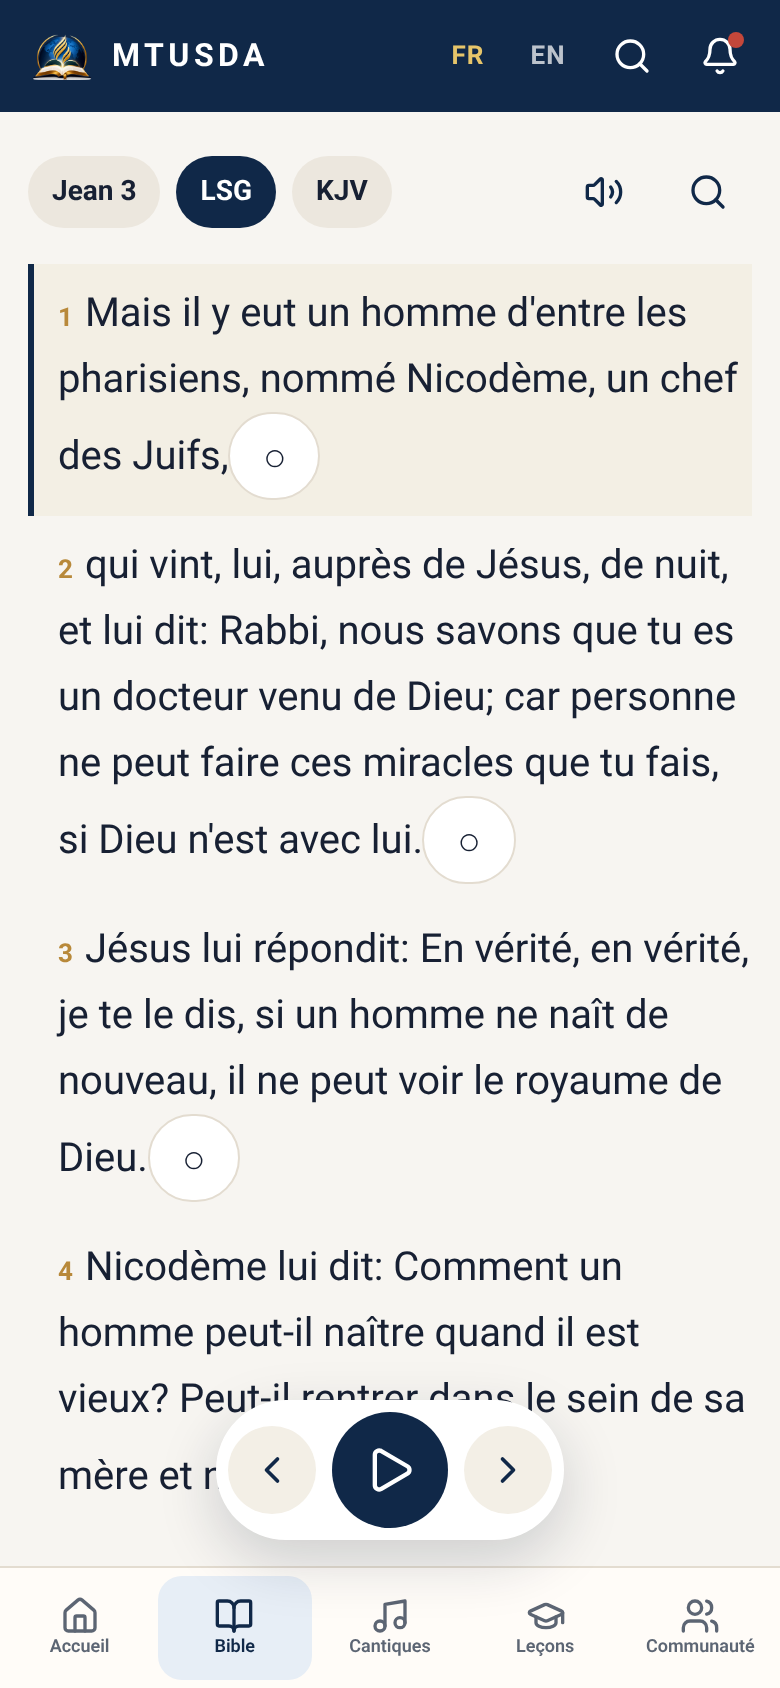
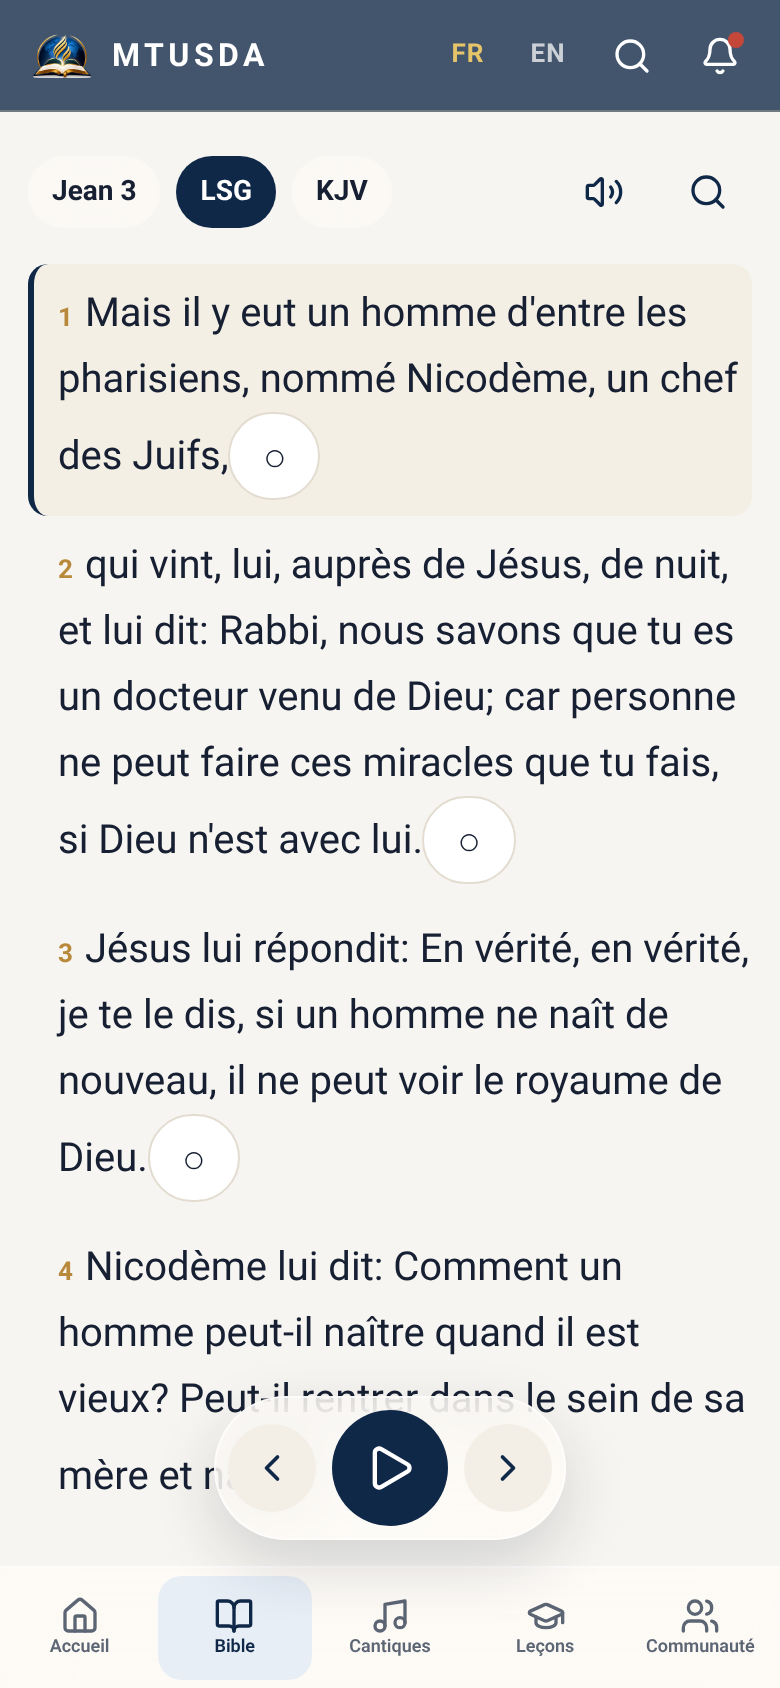
feat: add a brief splash, glass surfaces, and short motion
The first open of a session shows the logo on navy, then the home screen. Header, cards, and the listen bar are frosted. Page changes, tiles, and the spoken verse move quickly and respect reduced motion.

diff --git a/app/globals.css b/app/globals.css
@@ -19,7 +19,10 @@ html, body { background: var(--paper); overflow-x: hidden }
 body {
   margin: 0;
   color: var(--ink);
-  background: var(--paper);
+  background:
+    radial-gradient(900px 420px at 0% -10%, rgba(232, 215, 176, 0.55), transparent 55%),
+    radial-gradient(700px 380px at 100% 0%, rgba(27, 61, 104, 0.14), transparent 50%),
+    var(--paper);
   font-family: var(--sans);
   min-height: 100vh;
   min-height: 100dvh;
@@ -39,9 +42,11 @@ img { max-width: 100%; display: block }
   gap: 8px;
   min-height: 56px;
   padding: calc(4px + env(safe-area-inset-top)) 8px 4px 12px;
-  background: var(--navy);
+  background: rgba(16, 40, 72, 0.78);
   color: white;
-  border-bottom: 0;
+  border-bottom: 1px solid rgba(232, 215, 176, 0.28);
+  backdrop-filter: blur(18px) saturate(1.35);
+  -webkit-backdrop-filter: blur(18px) saturate(1.35);
 }
 .brand {
   display: flex;
@@ -184,8 +189,10 @@ img { max-width: 100%; display: block }
   display: grid;
   grid-template-columns: repeat(5, minmax(0, 1fr));
   gap: 2px;
-  background: #fffcf8;
-  border-top: 1px solid var(--line);
+  background: rgba(255, 252, 248, 0.72);
+  border-top: 1px solid rgba(255, 255, 255, 0.65);
+  backdrop-filter: blur(16px) saturate(1.2);
+  -webkit-backdrop-filter: blur(16px) saturate(1.2);
   padding: 4px 4px calc(4px + env(safe-area-inset-bottom));
 }
 .bottom a {
@@ -259,6 +266,18 @@ img { max-width: 100%; display: block }
   flex-direction: column;
   justify-content: space-between;
   gap: 8px;
+  border: 1px solid rgba(255, 255, 255, 0.28);
+  box-shadow: 0 10px 24px rgba(16, 40, 72, 0.12);
+  position: relative;
+  overflow: hidden;
+  animation: tile-in 420ms cubic-bezier(.2,.7,.2,1) both;
+}
+.tile::after {
+  content: "";
+  position: absolute;
+  inset: 0;
+  background: linear-gradient(160deg, rgba(255,255,255,0.32), transparent 48%);
+  pointer-events: none;
 }
 .tile span {
   font-weight: 700;
@@ -279,10 +298,13 @@ img { max-width: 100%; display: block }
 .verse-card {
   display: block;
   margin-top: 14px;
-  background: var(--card);
-  border: 1px solid var(--line);
+  background: rgba(255, 252, 248, 0.62);
+  border: 1px solid rgba(255, 255, 255, 0.72);
   border-radius: 18px;
   padding: 16px;
+  backdrop-filter: blur(14px);
+  -webkit-backdrop-filter: blur(14px);
+  box-shadow: 0 10px 28px rgba(16, 40, 72, 0.06);
 }
 .verse-card p {
   font-family: var(--display);
@@ -298,8 +320,10 @@ img { max-width: 100%; display: block }
   margin-top: 12px;
 }
 .today a, .today .panel {
-  background: white;
-  border: 1px solid var(--line);
+  background: rgba(255, 252, 248, 0.66);
+  border: 1px solid rgba(255, 255, 255, 0.75);
+  backdrop-filter: blur(12px);
+  -webkit-backdrop-filter: blur(12px);
   border-radius: 14px;
   padding: 12px 14px;
   min-height: 44px;
@@ -308,8 +332,10 @@ img { max-width: 100%; display: block }
 .grid-4, .grid-2, .bookgrid { display: grid; gap: 12px }
 .grid-2 { grid-template-columns: 1fr }
 .card, .panel {
-  background: var(--card);
-  border: 1px solid var(--line);
+  background: rgba(255, 252, 248, 0.7);
+  border: 1px solid rgba(255, 255, 255, 0.72);
+  backdrop-filter: blur(12px);
+  -webkit-backdrop-filter: blur(12px);
   border-radius: 18px;
   padding: 16px;
 }
@@ -519,6 +545,10 @@ textarea { min-height: 110px; resize: vertical }
 }
 @media (prefers-reduced-motion: reduce) {
   * { scroll-behavior: auto }
+  .page, .tile, .splash, .splash-mark img, .listen-bar, .listen-bar .go.on {
+    animation: none !important;
+  }
+  .verse-flow .verse, .stanza p, .listen-bar .go { transition: none }
 }
 @media (max-width: 430px) {
   .tiles { gap: 10px; }
@@ -538,7 +568,10 @@ textarea { min-height: 110px; resize: vertical }
   min-height: 36px;
   padding: 0 12px;
   border-radius: 999px;
-  background: #ece7de;
+  background: rgba(255, 252, 248, 0.55);
+  border: 1px solid rgba(255, 255, 255, 0.7);
+  backdrop-filter: blur(10px);
+  -webkit-backdrop-filter: blur(10px);
   color: var(--ink);
   font-weight: 700;
   font-size: 14px;
@@ -552,6 +585,8 @@ textarea { min-height: 110px; resize: vertical }
   padding: 8px 0 8px 12px;
   border-bottom: 0;
   border-left: 3px solid transparent;
+  border-radius: 10px;
+  transition: background 220ms ease, border-color 220ms ease;
 }
 .verse-flow .verse.speaking {
   background: #f3efe4;
@@ -560,7 +595,7 @@ textarea { min-height: 110px; resize: vertical }
 .verse-flow .verse b { color: var(--gold); margin-right: 6px; font-size: 13px; }
 .stanza { margin: 0 0 22px; }
 .stanza .n { color: var(--muted); font-weight: 700; margin-bottom: 4px; }
-.stanza p { margin: 0; font-size: 20px; line-height: 1.45; white-space: pre-wrap; }
+.stanza p { margin: 0; font-size: 20px; line-height: 1.45; white-space: pre-wrap; border-radius: 12px; transition: background 220ms ease; }
 .stanza.speaking p { background: #f3efe4; }
 .hymn-line {
   display: flex;
@@ -581,9 +616,13 @@ textarea { min-height: 110px; resize: vertical }
   align-items: center;
   gap: 8px;
   padding: 6px;
-  background: white;
+  background: rgba(255, 252, 248, 0.72);
+  border: 1px solid rgba(255, 255, 255, 0.7);
   border-radius: 999px;
-  box-shadow: 0 10px 30px rgba(16, 28, 48, 0.18);
+  box-shadow: 0 12px 32px rgba(16, 28, 48, 0.16);
+  backdrop-filter: blur(16px) saturate(1.3);
+  -webkit-backdrop-filter: blur(16px) saturate(1.3);
+  animation: bar-in 360ms cubic-bezier(.2,.7,.2,1);
 }
 .listen-bar a, .listen-bar button {
   width: 44px;
@@ -600,6 +639,10 @@ textarea { min-height: 110px; resize: vertical }
   height: 58px;
   background: var(--navy);
   color: white;
+  transition: transform 180ms ease;
+}
+.listen-bar .go.on {
+  animation: pulse 1.4s ease-in-out infinite;
 }
 .hymn-tools { display: flex; gap: 4px; }
 .hymn-tools button, .hymn-tools a {
@@ -609,4 +652,60 @@ textarea { min-height: 110px; resize: vertical }
 @media (min-width: 1100px) {
   .listen-bar { bottom: 24px; }
   .topbar { display: none; }
+}
+
+.page { animation: page-in 320ms cubic-bezier(.2,.7,.2,1); }
+@keyframes page-in {
+  from { opacity: 0; transform: translateY(10px); }
+  to { opacity: 1; transform: none; }
+}
+@keyframes tile-in {
+  from { opacity: 0; transform: translateY(12px) scale(0.98); }
+  to { opacity: 1; transform: none; }
+}
+@keyframes bar-in {
+  from { opacity: 0; transform: translateX(-50%) translateY(12px); }
+  to { opacity: 1; transform: translateX(-50%); }
+}
+@keyframes pulse {
+  0%, 100% { box-shadow: 0 0 0 0 rgba(184, 137, 58, 0.35); }
+  50% { box-shadow: 0 0 0 8px rgba(184, 137, 58, 0); }
+}
+.splash {
+  position: fixed;
+  inset: 0;
+  z-index: 80;
+  display: grid;
+  place-items: center;
+  pointer-events: none;
+  background:
+    radial-gradient(ellipse at 50% 38%, #1b3d68 0%, #0c1e36 52%, #071422 100%);
+  animation: splash-in 500ms ease;
+}
+.splash.out { animation: splash-out 420ms ease forwards; }
+.splash-mark { text-align: center; }
+.splash-mark img {
+  width: min(168px, 42vw);
+  height: auto;
+  margin: 0 auto;
+  animation: splash-mark 700ms cubic-bezier(.2,.7,.2,1);
+}
+.splash-mark b {
+  display: block;
+  margin-top: 18px;
+  color: #e6c56a;
+  letter-spacing: 0.22em;
+  font-size: 15px;
+}
+@keyframes splash-in { from { opacity: 0 } to { opacity: 1 } }
+@keyframes splash-out { to { opacity: 0 } }
+@keyframes splash-mark {
+  from { opacity: 0; transform: scale(0.86); }
+  to { opacity: 1; transform: none; }
+}
+.search-panel {
+  background: rgba(255, 252, 248, 0.82);
+  border: 1px solid rgba(255, 255, 255, 0.7);
+  backdrop-filter: blur(16px);
+  -webkit-backdrop-filter: blur(16px);
 }

diff --git a/components/Shell.tsx b/components/Shell.tsx
@@ -12,9 +12,20 @@ export function Shell({ children }: { children: React.ReactNode }) {
   const t = useCopy()
   const [q, setQ] = useState("")
   const [searchOpen, setSearchOpen] = useState(false)
+  const [splash, setSplash] = useState<"in" | "out" | "off">("off")
   const field = useRef<HTMLInputElement>(null)
   useEffect(() => {
     if ("serviceWorker" in navigator) navigator.serviceWorker.register("/sw.js").catch(() => {})
+  }, [])
+  useEffect(() => {
+    let seen = false
+    try { seen = sessionStorage.getItem("mtusda-splash") === "1" } catch { /* private mode */ }
+    if (seen) return
+    try { sessionStorage.setItem("mtusda-splash", "1") } catch { /* ignore */ }
+    setSplash("in")
+    const hold = window.setTimeout(() => setSplash("out"), 1100)
+    const done = window.setTimeout(() => setSplash("off"), 1550)
+    return () => { window.clearTimeout(hold); window.clearTimeout(done) }
   }, [])
   useEffect(() => {
     if (searchOpen) field.current?.focus()
@@ -93,7 +104,7 @@ export function Shell({ children }: { children: React.ReactNode }) {
             </form>
           </div>
         )}
-        <main className="main">{children}</main>
+        <main className="main"><div key={path} className="page">{children}</div></main>
       </div>
       <nav className="bottom">
         {items.map(item => (
@@ -103,6 +114,14 @@ export function Shell({ children }: { children: React.ReactNode }) {
           </Link>
         ))}
       </nav>
+      {splash !== "off" && (
+        <div className={splash === "out" ? "splash out" : "splash"} aria-hidden="true">
+          <div className="splash-mark">
+            <img src="/logo-mark.png" alt="" />
+            <b>MTUSDA</b>
+          </div>
+        </div>
+      )}
     </div>
   )
 }

diff --git a/app/bible/[book]/[chapter]/page.tsx b/app/bible/[book]/[chapter]/page.tsx
@@ -122,7 +122,7 @@ export default function ChapterPage() {
       </div>
       <div className="listen-bar">
         {chapter > 1 ? <Link href={`/bible/${book.id.toLowerCase()}/${chapter - 1}`} aria-label={locale === "fr" ? "Chapitre précédent" : "Previous chapter"}><ChevronLeft size={22} /></Link> : <span />}
-        <button type="button" className="go" data-testid="play" aria-label={speech.on ? "Pause" : "Play"} onClick={() => speech.toggle(lines)}>
+        <button type="button" className={speech.on ? "go on" : "go"} data-testid="play" aria-label={speech.on ? "Pause" : "Play"} onClick={() => speech.toggle(lines)}>
           {speech.on ? <Pause size={26} /> : <Play size={26} />}
         </button>
         {chapter < book.chapters ? <Link href={`/bible/${book.id.toLowerCase()}/${chapter + 1}`} aria-label={locale === "fr" ? "Chapitre suivant" : "Next chapter"}><ChevronRight size={22} /></Link> : <span />}

diff --git a/app/cantiques/[slug]/page.tsx b/app/cantiques/[slug]/page.tsx
@@ -86,7 +86,7 @@ export default function HymnPage() {
       <p className="muted">{hymn.rights}</p>
       <div className="listen-bar">
         <Link href={`/cantiques/${prev.slug}`} aria-label={locale === "fr" ? "Précédent" : "Previous"}><ChevronLeft size={22} /></Link>
-        <button type="button" className="go" data-testid="play" aria-label={speech.on ? "Pause" : "Play"} onClick={() => speech.toggle(lines)}>
+        <button type="button" className={speech.on ? "go on" : "go"} data-testid="play" aria-label={speech.on ? "Pause" : "Play"} onClick={() => speech.toggle(lines)}>
           {speech.on ? <Pause size={26} /> : <Play size={26} />}
         </button>
         <Link href={`/cantiques/${next.slug}`} aria-label={locale === "fr" ? "Suivant" : "Next"}><ChevronRight size={22} /></Link>

diff --git a/app/page.tsx b/app/page.tsx
@@ -34,8 +34,8 @@ export default function HomePage() {
         </div>
       </section>
       <div className="tiles">
-        {tiles.map(item => (
-          <Link key={item.tone} href={item.href} className={`tile ${item.tone}`}>
+        {tiles.map((item, i) => (
+          <Link key={item.tone} href={item.href} className={`tile ${item.tone}`} style={{ animationDelay: `${i * 70}ms` }}>
             <item.icon size={22} />
             <span>{item.title}</span>
           </Link>

diff --git a/public/sw.js b/public/sw.js
@@ -1,4 +1,4 @@
-const CACHE = "mtusda-v7"
+const CACHE = "mtusda-v8"
 self.addEventListener("install", event => { self.skipWaiting() })
 self.addEventListener("activate", event => {
   event.waitUntil((async () => {
